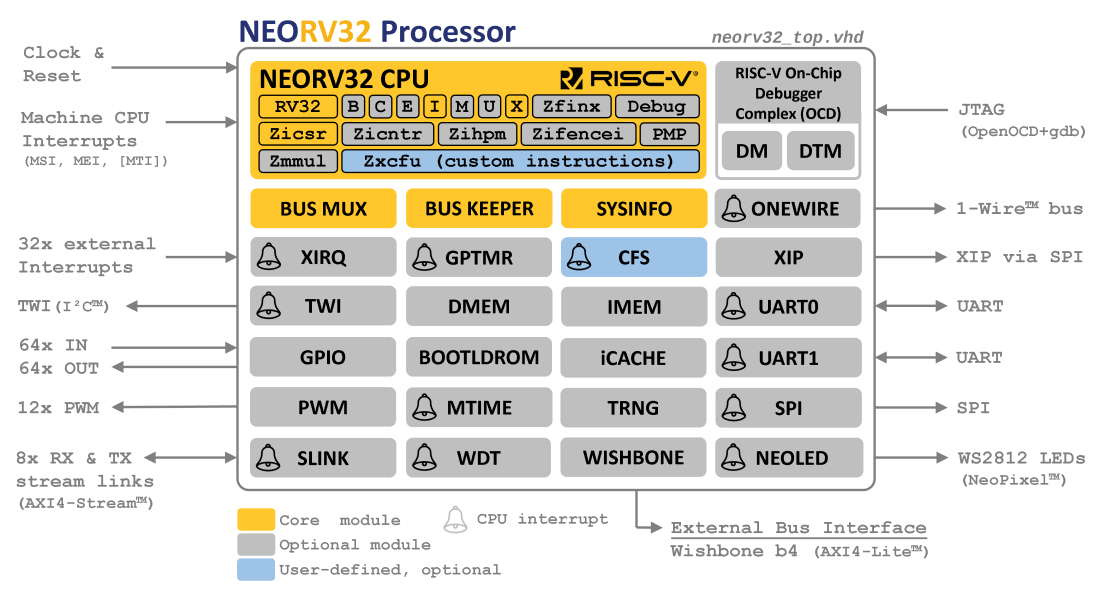
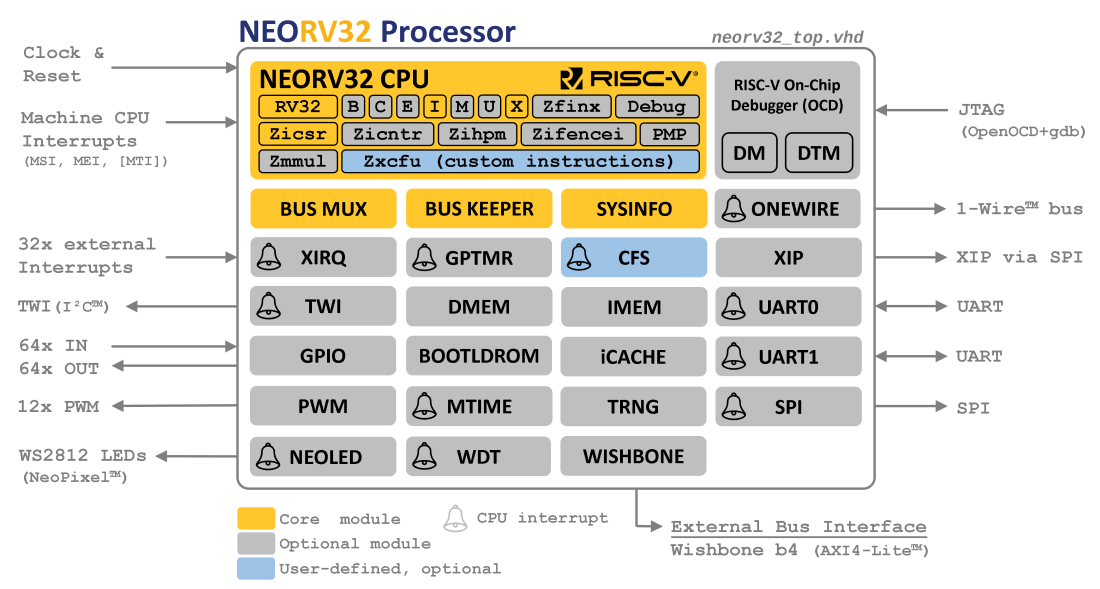
:warning: remove SLINK interface

diff --git a/README.md b/README.md
@@ -165,8 +165,6 @@ allows booting application code via UART or from external SPI flash
 * 32-bit external bus interface - Wishbone b4 compatible
 ([WISHBONE](https://stnolting.github.io/neorv32/#_processor_external_memory_interface_wishbone_axi4_lite));
 [wrappers](https://github.com/stnolting/neorv32/blob/main/rtl/system_integration) for AXI4-Lite and Avalon-MM host interfaces
-* 32-bit stream link interface with up to 8 independent RX and TX channels
-([SLINK](https://stnolting.github.io/neorv32/#_stream_link_interface_slink)) - AXI4-Stream compatible
 * external interrupts controller with up to 32 channels
 ([XIRQ](https://stnolting.github.io/neorv32/#_external_interrupt_controller_xirq))
 
